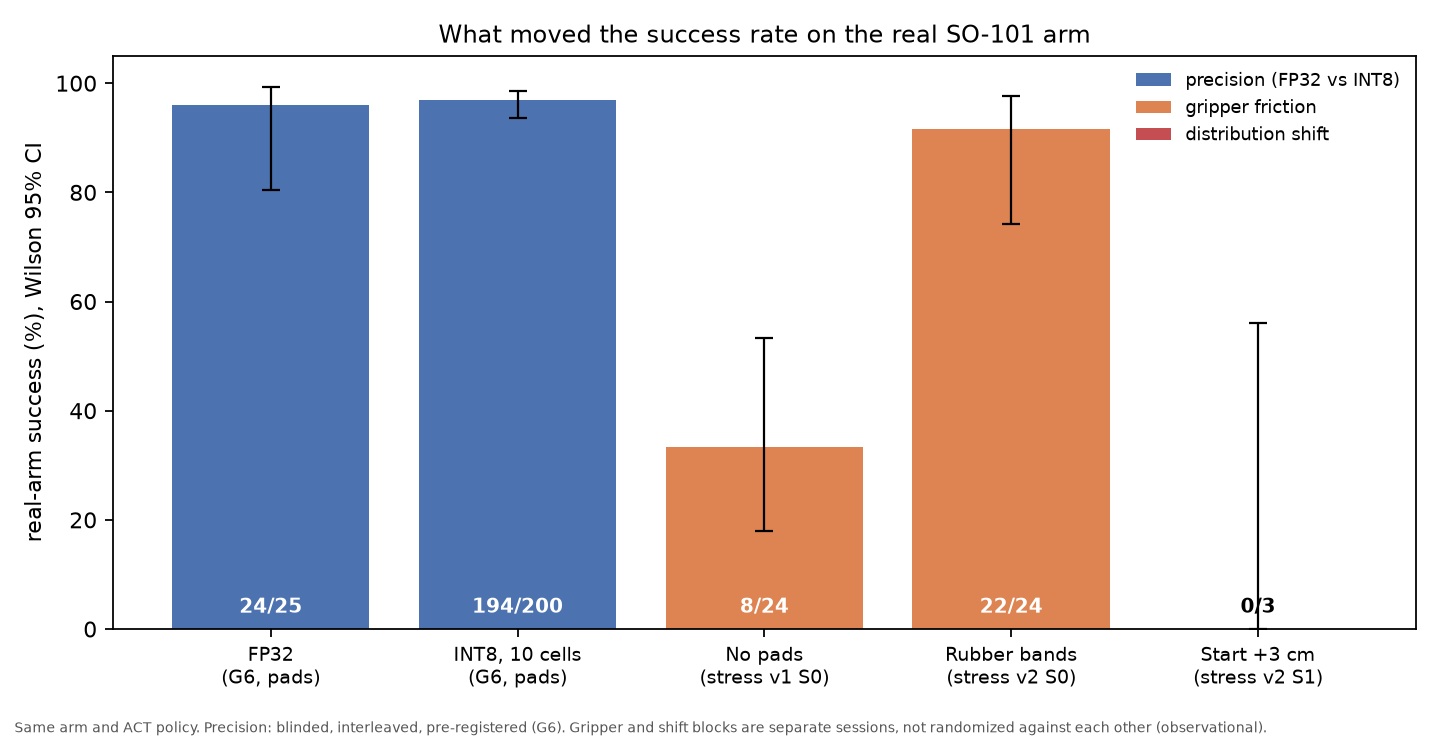
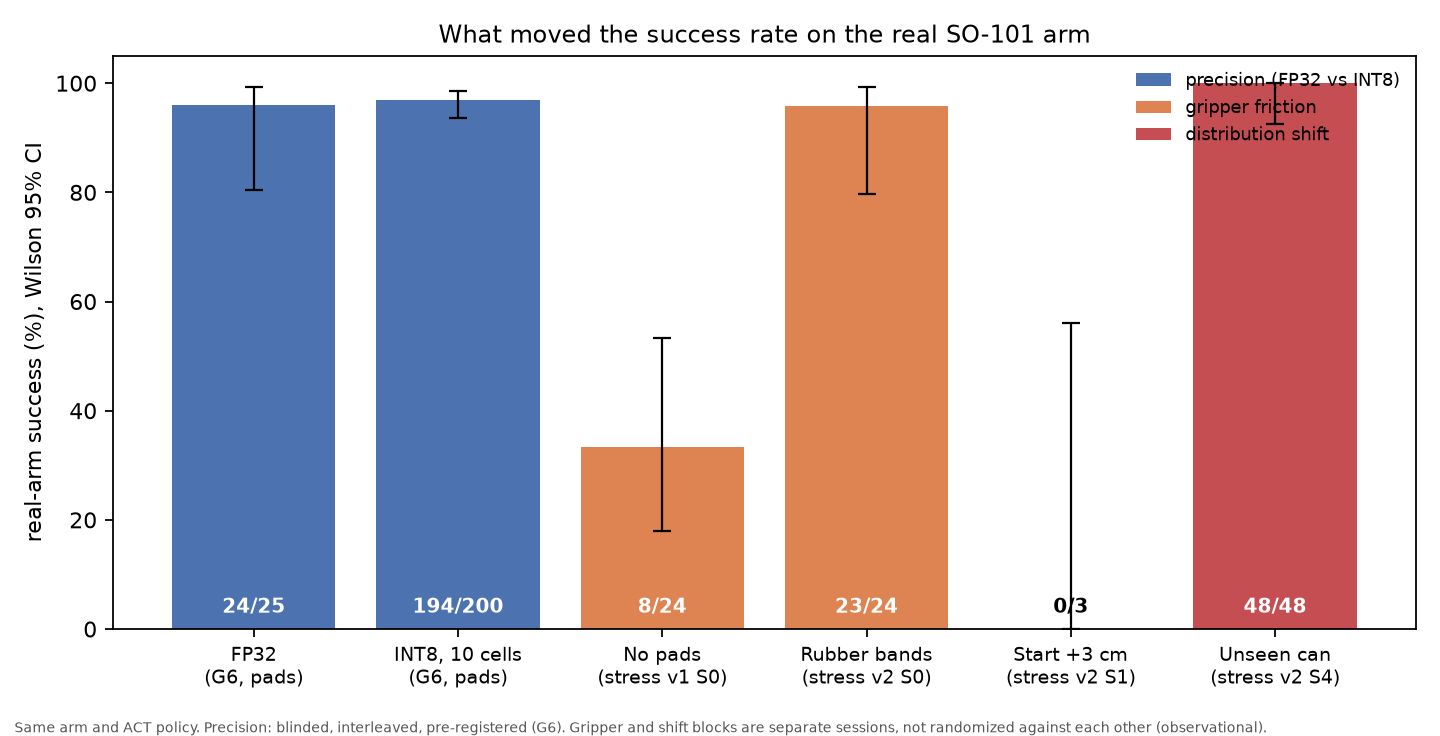
스트레스 결과 반영: 그림(S4 48/48, S0 23/24), 대시보드 v7, README·제출 글·콘티
Claude-Session: https://claude.ai/code/session_017TFB1HSHLEw1Wug2PYhozg

diff --git a/dashboard/audit_gate.html b/dashboard/audit_gate.html
@@ -128,8 +128,8 @@ footer{border-top:1px solid var(--rule); padding-top:18px; color:var(--ink-3); f
     <div class="bar"></div>
     <div class="body">
       <div class="t"><span class="code">LOCK-3</span><span>passed. G6 is unsealed and analyzed.</span></div>
-      <p>The cell-to-engine map was opened only after all 245 trials were logged and hashed. The stress test v2 and the
-        FP16 run are still in progress, so their per-cell results stay sealed and are not shown here.</p>
+      <p>The cell-to-engine map was opened only after all 245 trials were logged and hashed. The stress tests were unsealed
+        on 10-13. The FP16 run is still pending and stays sealed.</p>
     </div>
   </section>
 
@@ -140,8 +140,8 @@ footer{border-top:1px solid var(--rule); padding-top:18px; color:var(--ink-3); f
       <div class="row"><span class="k">Cost</span><span class="d"><b>FP16 (VC-025) is the cheapest engine on this device</b>: 11.6 ms and 82 mJ per inference, against 16.8–17.1 ms and 101 mJ for INT8 and 53.4 ms and 403 mJ for FP32 (trtexec, back-to-back). At the deployed rate, one chunk about every 3 s, inference energy is a small part of system power.</span><span class="v"><span class="chip ok">measured</span></span></div>
       <div class="row"><span class="k">Real arm</span><span class="d"><b>FP16 has no real-arm evidence yet.</b> A pre-registered run (FP16 20, FP32 10, INT8 10, interleaved) is pending. INT8: 10 cells with 194/200 successes against FP32 24/25. Against FP32 with a 10 pp tolerance, every cell is <b>insufficient evidence</b>: the Newcombe 99.75% intervals span about ±23–53 pp at these sample sizes.</span><span class="v"><span class="chip seal">insufficient</span></span></div>
       <div class="row"><span class="k">Placement</span><span class="d">Mean placement error stays within the 5 px tolerance of FP32 for 8 of 10 INT8 cells. The other 2 are indeterminate. Best vs worst audit fidelity: −0.84 px, CI [−2.53, +0.88].</span><span class="v"><span class="chip ok">8 / 10 ok</span></span></div>
-      <div class="row"><span class="k">Verified for</span><span class="d">The 268 g cola can at the trained start mark, the fixed coaster, locked camera exposure, indoor desk light, and anti-slip gripper pads (G6). The current rubber-band gripper has been validated only on the nominal scene (22/24).</span><span class="v">scope</span></div>
-      <div class="row"><span class="k">Weak spots</span><span class="d">Grip friction: 8/24 with no pads. Start position: 0/3 when moved 3 cm; the policy reaches for its memorized position first. The unseen yellow can is still being tested.</span><span class="v"><span class="chip halt">observed</span></span></div>
+      <div class="row"><span class="k">Verified for</span><span class="d">The 268 g cola can at the trained start mark, the fixed coaster, locked camera exposure and indoor desk light, with anti-slip pads (G6) and with rubber bands (stress v2: nominal 23/24, unseen 190 g yellow can 48/48 with every engine 12/12).</span><span class="v">scope</span></div>
+      <div class="row"><span class="k">Weak spots</span><span class="d">Grip friction: 8/24 with no pads. Start position: 0/3 when moved 3 cm; the policy reaches for its memorized position first. A new object of a different size was not a weak spot here (48/48).</span><span class="v"><span class="chip halt">observed</span></span></div>
       <div class="row"><span class="k">AI judge</span><span class="d">In its current setup (one final frame, a one-word answer) Cosmos-Reason2 detected 0 of 7 G6 failures. Do not use it as a success signal until it is validated, for example with video input.</span><span class="v"><span class="chip halt">not reliable</span></span></div>
       <div class="row"><span class="k">Next</span><span class="d">1. Run the FP16 real-arm block. 2. To resolve a cell against FP32 at 10 pp, plan about 110–120 trials per arm. 3. Add demonstrations from varied start positions before relying on position changes. 4. Validate the AI judge on held-out trials.</span><span class="v">actions</span></div>
     </div>
@@ -156,8 +156,8 @@ footer{border-top:1px solid var(--rule); padding-top:18px; color:var(--ink-3); f
       <div class="lock"><div class="lock-id">LOCK-1</div><div class="lock-txt"><strong>Data split fixed → policy training</strong><span>120 demos, 80/20/20 from a seeded hash</span></div><span class="chip ok">done 10-07</span></div>
       <div class="lock"><div class="lock-id">LOCK-2</div><div class="lock-txt"><strong>All audit scores frozen → first real trial</strong><span>5 predictors over 24 INT8 cells, rankings hashed</span></div><span class="chip ok">done</span></div>
       <div class="lock"><div class="lock-id">LOCK-3</div><div class="lock-txt"><strong>225 main + 20 retest trials logged → first analysis run</strong><span>sealed log hashes fixed before unsealing</span></div><span class="chip ok">done 10-11</span></div>
-      <div class="lock"><div class="lock-id">STRESS v1</div><div class="lock-txt"><strong>Pads removed: stopped by the S0 rule (8/24 &lt; 12)</strong><span>logs hashed, kept sealed until v2 ends</span></div><span class="chip seal">sealed</span></div>
-      <div class="lock"><div class="lock-id">STRESS v2</div><div class="lock-txt"><strong>Rubber-band gripper: S0 done, S1 stopped at 3, S4 11 / 48</strong><span>outcome re-judged offline from video (§9); success decisions use Newcombe intervals, fixed before unsealing (§10)</span></div><span class="chip seal">running</span></div>
+      <div class="lock"><div class="lock-id">STRESS v1</div><div class="lock-txt"><strong>Pads removed: stopped by the S0 rule (8/24 &lt; 12)</strong><span>no pattern by fidelity: worst-fidelity cell 3/6, FP32 1/6 (descriptive)</span></div><span class="chip ok">unsealed 10-13</span></div>
+      <div class="lock"><div class="lock-id">STRESS v2</div><div class="lock-txt"><strong>Rubber-band gripper: S0 23/24, S1 0/3 (stopped), S4 48/48</strong><span>outcome re-judged offline from video (§9); success decisions use Newcombe intervals, fixed before unsealing (§10)</span></div><span class="chip ok">unsealed 10-13</span></div>
       <div class="lock"><div class="lock-id">FP16</div><div class="lock-txt"><strong>FP16 20 · FP32 10 · INT8 10, interleaved</strong><span>pre-registered, no trial yet</span></div><span class="chip wait">locked</span></div>
       <div class="lock"><div class="lock-id">LOCK-4</div><div class="lock-txt"><strong>Analysis complete → video and narrative</strong><span>blocks choosing the story after seeing results</span></div><span class="chip wait">pending</span></div>
     </div>
@@ -222,7 +222,7 @@ footer{border-top:1px solid var(--rule); padding-top:18px; color:var(--ink-3); f
       as a randomized comparison.</p>
     <figure>
       <div class="fig-scroll"><svg viewBox="0 0 720 270" role="img" aria-label="Success rate by condition" style="min-width:540px"><g id="margin"></g></svg></div>
-      <figcaption>Wilson 95% CI. Unseen-can (S4) results are added after stress v2 is unsealed.</figcaption>
+      <figcaption>Wilson 95% CI. Unseen can: a 190 g, 50 mm yellow can never seen in training, at the trained start mark; all four engines 12/12. Outcomes use the consensus re-judge (protocol §11).</figcaption>
     </figure>
   </section>
 
@@ -248,15 +248,15 @@ footer{border-top:1px solid var(--rule); padding-top:18px; color:var(--ink-3); f
       <figure class="clip"><video src="clips/v2_rubber_success.mp4" controls muted playsinline preload="metadata"></video>
         <div class="ct"><strong>Rubber-band gripper</strong><span class="chip ok">success</span></div>
         <p>The same scene with rubber bands on the fingers. The can sits about 20 px off center, inside the 35 px target.
-          The block finished 22/24.</p><span class="src">stress v2 S0 trial 1</span></figure>
+          The block finished 23/24.</p><span class="src">stress v2 S0 trial 1</span></figure>
       <figure class="clip"><video src="clips/v2_shift_regrasp.mp4" controls muted playsinline preload="metadata"></video>
         <div class="ct"><strong>Start moved 3 cm</strong><span class="chip halt">failure</span></div>
         <p>The policy first closes on empty air at the trained start spot, then knocks the can over while re-grasping.</p><span class="src">stress v2 S1 trial 1</span></figure>
     </div>
     <figure class="clip"><video src="clips/v2_s0_vs_s4.mp4" controls muted playsinline preload="metadata"></video>
-      <div class="ct"><strong>Cola can vs unseen yellow can, side by side</strong><span class="chip seal">S4 in progress</span></div>
+      <div class="ct"><strong>Cola can vs unseen yellow can, side by side</strong><span class="chip ok">S4 48/48</span></div>
       <p>Stress v2 with the rubber-band gripper: S0 trial i (left) next to S4 trial i (right), each full trial at 4× speed.
-        S4 trials 1–11 so far. Outcomes are not printed; the S4 analysis is still sealed.</p><span class="src">stress v2 S0 + S4 · 4× · regenerated when S4 completes</span></figure>
+        Shown: the first 11 pairs. All 48 S4 trials succeeded.</p><span class="src">stress v2 S0 + S4 trials 1–11 · 4×</span></figure>
   </section>
 
   <section class="panel">
@@ -377,8 +377,8 @@ bars("mj",[["FP16 VC-025",82,"var(--good)"],["INT8 VC-002",101,"var(--signal)"],
 
 /* margin bars */
 (()=>{const g=document.getElementById("margin");const W=(k,n,z=1.96)=>{const p=k/n,d=1+z*z/n,c=p+z*z/(2*n),h=z*Math.sqrt(p*(1-p)/n+z*z/(4*n*n));return[(c-h)/d,(c+h)/d]};
-  const D=[["FP32","G6, pads",24,25,"var(--ink-2)"],["INT8 × 10","G6, pads",194,200,"var(--signal)"],["No pads","stress v1 S0",8,24,"var(--ember)"],["Rubber bands","stress v2 S0",22,24,"var(--ember)"],["Start +3 cm","stress v2 S1",0,3,"var(--halt)"]];
-  const Y0=210,Y1=14,X0=56,bw=86,gap=44; const sy=v=>Y0-(Y0-Y1)*v;
+  const D=[["FP32","G6, pads",24,25,"var(--ink-2)"],["INT8 × 10","G6, pads",194,200,"var(--signal)"],["No pads","stress v1 S0",8,24,"var(--ember)"],["Rubber bands","stress v2 S0",23,24,"var(--ember)"],["Start +3 cm","stress v2 S1",0,3,"var(--halt)"],["Unseen can","stress v2 S4",48,48,"var(--signal)"]];
+  const Y0=210,Y1=14,X0=56,bw=78,gap=30; const sy=v=>Y0-(Y0-Y1)*v;
   [0,.25,.5,.75,1].forEach(t=>{g.appendChild(mk("line",{x1:X0-6,y1:sy(t),x2:X0+D.length*(bw+gap),y2:sy(t),stroke:"var(--rule-2)"}));g.appendChild(mk("text",{x:X0-10,y:sy(t)+4,"text-anchor":"end",class:"ax"},t*100+"%"));});
   D.forEach((d,i)=>{const x=X0+i*(bw+gap),p=d[2]/d[3],[l,h]=W(d[2],d[3]);
     const r=mk("rect",{x,y:sy(p),width:bw,height:Math.max(Y0-sy(p),1),fill:d[4]});g.appendChild(r);wire(r,`${d[0]} (${d[1]}) · ${d[2]}/${d[3]} · CI [${Math.round(l*100)}, ${Math.round(h*100)}]%`);

diff --git a/scripts/fig_risk_magnitude.py b/scripts/fig_risk_magnitude.py
@@ -13,7 +13,7 @@ SOURCES = {
     "FP32\n(G6, pads)": (24, 25, "quant", "g6_analysis.json VC-000"),
     "INT8, 10 cells\n(G6, pads)": (194, 200, "quant", "g6_analysis.json, INT8 cells pooled"),
     "No pads\n(stress v1 S0)": (8, 24, "grip", "stress_operator_notes.md, public tally"),
-    "Rubber bands\n(stress v2 S0)": (22, 24, "grip", "stress v2 re-judge (protocol §9)"),
+    "Rubber bands\n(stress v2 S0)": (23, 24, "grip", "stress v2 consensus re-judge (protocol §11)"),
     "Start +3 cm\n(stress v2 S1)": (0, 3, "shift", "public log; stopped early by user"),
 }
 out = sys.argv[1]
@@ -25,7 +25,7 @@ fig, ax = plt.subplots(figsize=(9, 4.6), dpi=160)
 for i, (name, (k, n, g, _)) in enumerate(SOURCES.items()):
     lo, hi = wilson(k, n); p = k / n
     ax.bar(i, p * 100, color=col[g], label=lab[g] if lab[g] not in ax.get_legend_handles_labels()[1] else None)
-    ax.errorbar(i, p * 100, yerr=[[100 * (p - lo)], [100 * (hi - p)]], color="black", capsize=4, lw=1)
+    ax.errorbar(i, p * 100, yerr=[[max(0, 100 * (p - lo))], [max(0, 100 * (hi - p))]], color="black", capsize=4, lw=1)
     ax.text(i, 3, f"{k}/{n}", ha="center", color="white" if p > 0.1 else "black", fontsize=9, fontweight="bold")
 ax.set_xticks(range(len(SOURCES))); ax.set_xticklabels(SOURCES.keys(), fontsize=8.5)
 ax.set_ylabel("real-arm success (%), Wilson 95% CI"); ax.set_ylim(0, 105)

diff --git a/docs/video_plan.md b/docs/video_plan.md
@@ -16,7 +16,7 @@
 | 1 | 0:00–0:10 | 3 s success clip → 3 s failure clip (knocked over) → black screen with the question | "Same robot, same task. Can I ship this to a tiny Jetson, and as which model?" | `clips/g6_success.mp4`, `clips/g6_fail_knock.mp4` |
 | 2 | 0:10–1:10 | **Continuous 60 s real-arm shot** (phone, side view), with small captions: task, device, candidate engines, blinded trial | "The arm runs an ACT policy on a Jetson Orin Nano Super, trained on Nebius from 120 demonstrations (re-enactment shown). We built 26 candidate engines: FP32, FP16 and 24 INT8 calibrations. Every real trial is blinded: the operator never knows which engine is running." | New shot: phone 30–40 cm beside the follower, 16:9, leader out of frame, one full trial. A 5 s insert of the re-enactment plus `clips/demos_top_wrist.mp4`, captioned "re-enactment" |
 | 3 | 1:10–1:35 | Dashboard: engine cost bars → per-cell success chart | "QuantGate puts cost measured on the device next to real-arm results. Training and the offline audit ran on Nebius Jobs; the engines are TensorRT on the Jetson." | D7 board "Engine cost" and "Closed-loop success" |
-| 4 | 1:35–2:00 | Three findings, one caption each: FP16 cost → audit vs random 73/75 vs 73/75 → no-pad slip and 3 cm shift clips | "Measuring changed the decision. FP16 was the cheapest engine here, not INT8. The audit's top picks did no better than random picks. What moved success was grip and position." | `clips/v1_nopad_drop.mp4`, `clips/v2_shift_regrasp.mp4`, `[PENDING S4]` |
+| 4 | 1:35–2:00 | Three findings, one caption each: FP16 cost → audit vs random 73/75 vs 73/75 → no-pad slip and 3 cm shift clips | "Measuring changed the decision. FP16 was the cheapest engine here, not INT8. The audit's top picks did no better than random picks. What moved success was grip and position." | `clips/v1_nopad_drop.mp4`, `clips/v2_shift_regrasp.mp4`, then 3 s of `clips/v2_s0_vs_s4.mp4` (unseen can: 48/48) |
 | 5 | 2:00–2:20 | Failure 186 final frame with Cosmos's "Yes" overlaid (the operator's hand at the desk edge is the real use case) → Nemotron report with "numbers not in evidence: 0" highlighted | "The AI layers are checked too. In our setup Cosmos-Reason2, on a Nebius endpoint, called this a success, and missed all 7 failures. Nemotron 3 Super on Token Factory writes the report, and every number is checked against the evidence." | `clips/g6_fail_knock.mp4` last frame, `d3_final_report.md` |
 | 6 | 2:20–2:45 | Dashboard deployment review card, line by line, then a click into a failure video | "What you take away is a review: FP16 is the cost-favored candidate, the real-arm evidence for each INT8 cell is still insufficient, the weak spots are grip and position, and here is what to test next." | D7 board "Deployment review" (`[PENDING FP16]` updates the line) |
 | 7 | 2:45–2:50 | Logo + repository URL | "QuantGate. Evidence before deployment." | `docs/assets/quantgate_logo.png` |

diff --git a/docs/submission_draft.md b/docs/submission_draft.md
@@ -1,7 +1,7 @@
 # QuantGate — Devpost submission draft (v2, 2026-10-12)
 
 Status: **draft v2**, rewritten around the developer's decision, following the storytelling review. Slots marked
-`[PENDING S4]` and `[PENDING FP16]` are filled after those blocks are unsealed. `[USER]` marks the user's own
+`[PENDING FP16]` are filled after those blocks are unsealed. `[USER]` marks the user's own
 ratings. Every number cites a committed artifact. Wording rules: say "not detected", never "no effect"; FP16 is
 "the cost-favored candidate" until its real-arm run is analyzed; completed and planned trials are counted
 separately.
@@ -47,7 +47,7 @@ Scope throughout: one pick-and-place task, one ACT policy, a Jetson Orin Nano Su
 | On this device FP16 has the lowest latency and energy per inference | trtexec: FP16 11.6 ms and 82 mJ; INT8 16.8–17.1 ms and 101 mJ; FP32 53.4 ms and 403 mJ (`power_bench/SUMMARY.md`) | Don't pick an engine by its precision label. Measure on the target. FP16 is the cost-favored candidate; its real-arm run is `[PENDING FP16]` |
 | Audit-picked INT8 cells did not beat random ones | 73/75 against 73/75, 95% CI [−6.8, +6.8] pp; offline rank against placement, Spearman 0.02–0.08 (`g6_analysis.json`) | In this setting, the offline ranking is not evidence that one calibration is better |
 | Against FP32 the evidence is insufficient for every INT8 cell | 194/200 against 24/25. At a 10 pp tolerance the Newcombe intervals span about ±23–53 pp, so all 10 cells are "insufficient evidence" (`g6_q2_sensitivity.json`) | "No failures seen" is not "safe". You would need about 110–120 trials per arm to show a cell is within 10 pp |
-| Deployment conditions moved success far more | No anti-slip pads 8/24; rubber bands 22/24; start moved 3 cm 0/3 (observational, `stress_operator_notes.md`); unseen can `[PENDING S4]` | Validate the grip, positions and objects you will actually face |
+| Deployment conditions moved success far more | No anti-slip pads 8/24; rubber bands 23/24; start moved 3 cm 0/3 (observational); unseen yellow can 48/48, every engine 12/12 (`stress_v2_analysis.json`) | Validate the grip, positions and objects you will actually face |
 | The AI judge, as configured, missed every failure | Shown the final frame of 245 trials, Cosmos-Reason2 answered "Yes" every time and caught 0 of the 7 failures. Live at 2 Hz on 215 trials, it never left CONTINUE (`d4_retro_judge_g6.json`) | A high agreement rate on mostly-successful data means little. Validate an AI judge on failures before you use it |
 
 These results are about this task, this device and this experimental range. They do not show that INT8 is harmless

diff --git a/README.md b/README.md
@@ -37,14 +37,16 @@ Numbers come from committed artifacts. The figure's script lists its sources.
    - FP16's real-arm run is pre-registered and still pending.
    - Source: [`power_bench/SUMMARY.md`](artifacts/reports/power_bench/SUMMARY.md).
 3. **Deployment margins mattered more than precision** (observational).
-   - Without the gripper pads: 8/24. With rubber bands: 22/24.
+   - Without the gripper pads: 8/24. With rubber bands: 23/24.
    - With the start spot moved 3 cm: 0/3. The policy reaches for its memorized position first.
+   - An unseen yellow can: 48/48, all four engines 12/12. Placement was within the 5 px tolerance of FP32 for every
+     INT8 cell ([`stress_v2_analysis.json`](artifacts/reports/stress_v2_analysis.json)).
    - Source: [`stress_operator_notes.md`](docs/sessions/stress_operator_notes.md).
 4. **The AI judge needs validation before use.**
    - Shown the final frame of all 245 trials, Cosmos-Reason2 answered "Yes" every time and caught 0 of 7 failures.
    - Source: [`d4_retro_judge_g6.json`](artifacts/reports/d4_retro_judge_g6.json).
 
-Stress-test per-cell results are still sealed. The stress protocol is
+Stress tests were unsealed on 2026-10-13. The stress protocol is
 [`docs/stress_test_protocol.md`](docs/stress_test_protocol.md).
 
 ## How QuantGate uses NVIDIA models and Nebius
